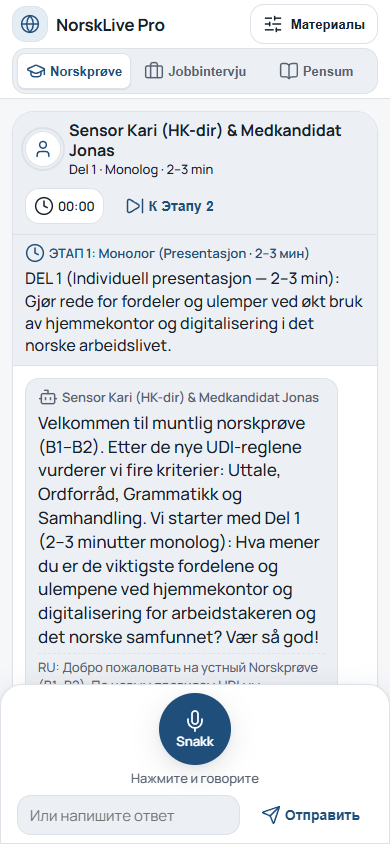
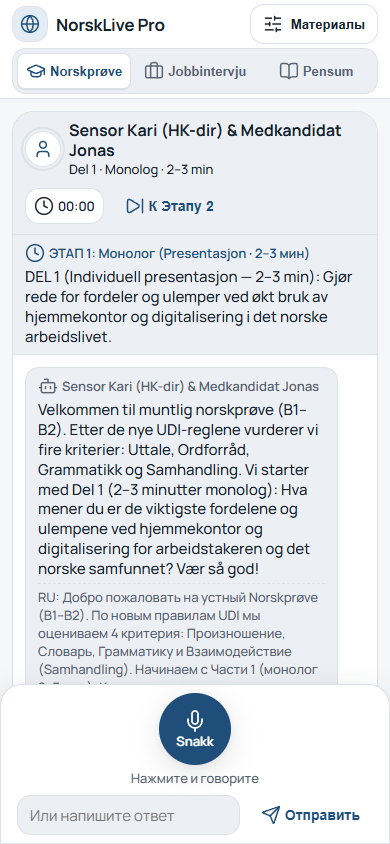
style(m1c-1): fit entire opening chat message and actions above dock on 390x844

Changed region(s): [[0.0615, 0.3081, 0.9231, 0.8318]]

diff --git a/src/app/studio/studio.css b/src/app/studio/studio.css
@@ -154,14 +154,24 @@ body {
   .studio-layout {
     padding: var(--space-2);
   }
-  .exam-prompt-text {
-    font-size: 0.9375rem;
-    line-height: 1.35;
+  .call-hero {
+    padding: var(--space-2);
+    gap: var(--space-1);
   }
-  .msg-norsk,
-  .msg-user-text {
+  .exam-stage-banner {
+    padding: var(--space-2);
+  }
+  .exam-prompt-text.t-speech {
     font-size: 0.9375rem;
-    line-height: 1.35;
+    line-height: 1.32;
+  }
+  .msg-norsk.t-speech,
+  .msg-user-text.t-speech {
+    font-size: 0.9375rem;
+    line-height: 1.32;
+  }
+  .chat-stream {
+    padding: var(--space-2);
   }
 }
 
